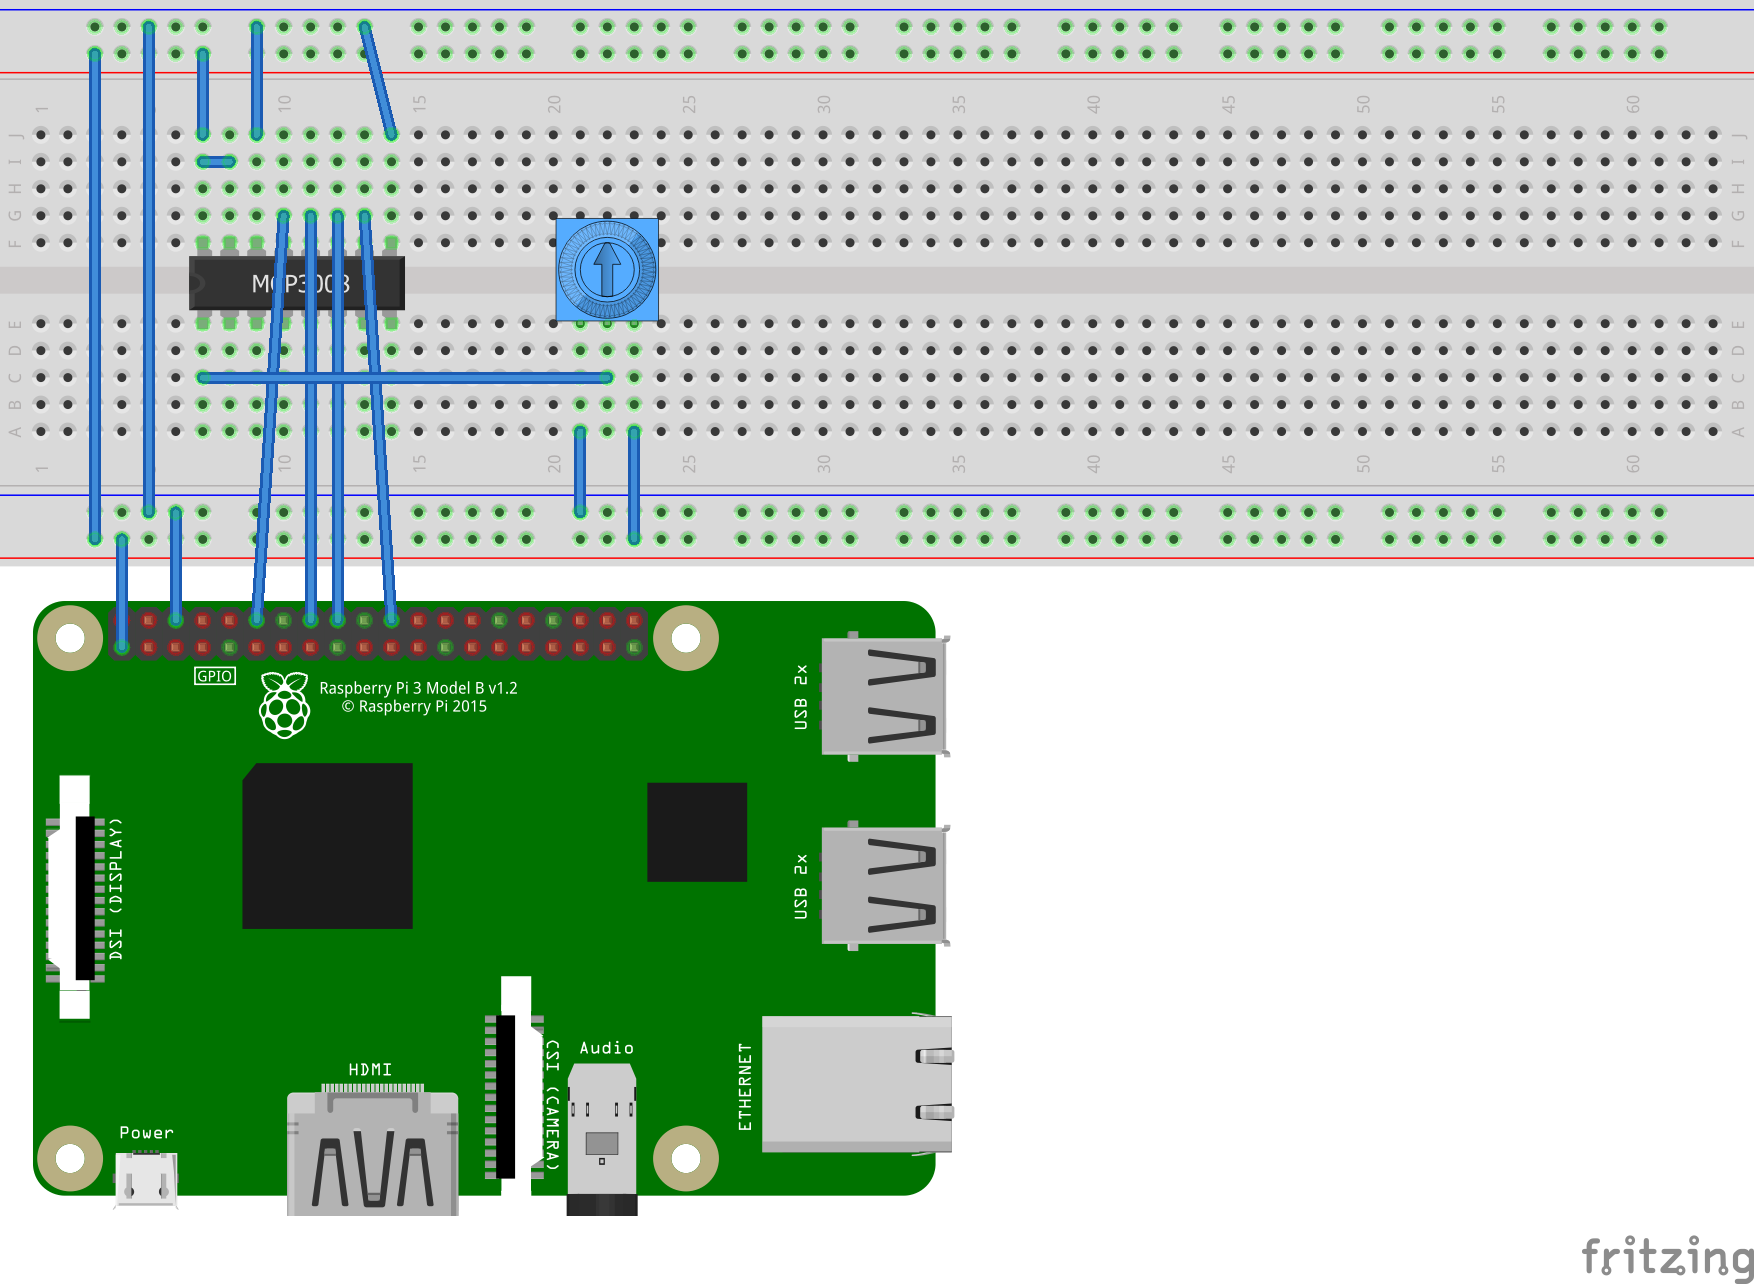
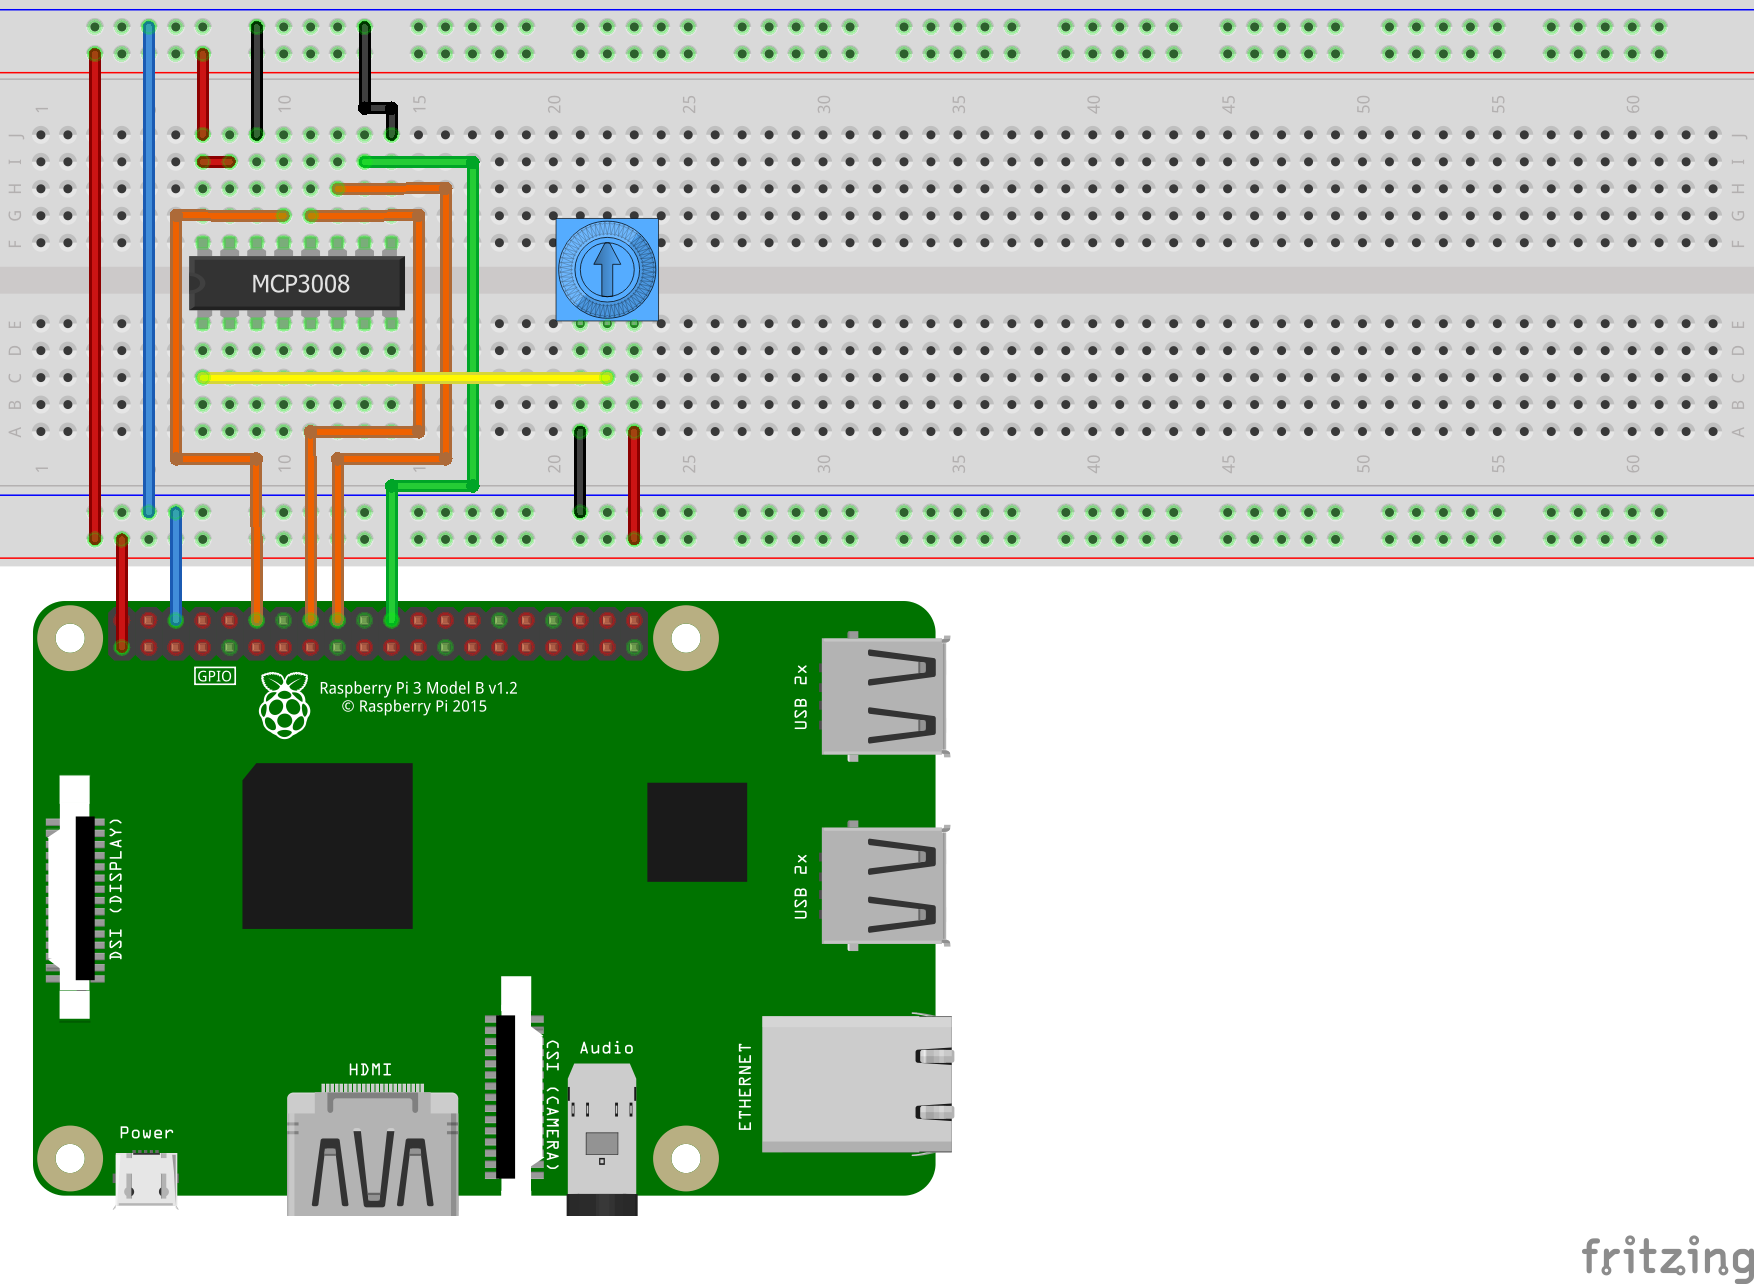
API Name Changes, Updated Samples and README

diff --git a/src/devices/Mcp3xxx/Mcp30xx32xx.cs b/src/devices/Mcp3xxx/Mcp30xx32xx.cs
@@ -7,62 +7,6 @@ using System.Device.Spi;
 
 namespace Iot.Device.Adc
 {
-    // MCP3001
-    // Byte        0        1
-    // ==== ======== ========
-    // Req  xxxxxxxx xxxxxxxx
-    // Resp xxNRRRR RRRRRRxxx
-    //
-    // MCP3002
-    // Byte        0        1
-    // ==== ======== ========
-    // Req  01MC1xxx xxxxxxxx
-    // Resp 00xxxNRR RRRRRRRR
-    //
-    // MCP3004
-    // Byte        0        1        2
-    // ==== ======== ======== ========
-    // Req  0000000S MxCCxxxx xxxxxxxx
-    // Resp xxxxxxxx xxxxDNRR RRRRRRRR
-    //
-    // MCP3008
-    // Byte        0        1        2
-    // ==== ======== ======== ========
-    // Req  0000000S MCCCxxxx xxxxxxxx
-    // Resp xxxxxxxx xxxxDNRR RRRRRRRR
-    //
-    // MCP3201
-    // Byte        0        1
-    // ==== ======== ========
-    // Req  xxxxxxxx xxxxxxxx
-    // Resp xxNRRRR RRRRRRRRx
-    //
-    // MCP3202
-    // Byte        0        1        2
-    // ==== ======== ======== ========
-    // Req  00000001 MC1xxxxx xxxxxxxx
-    // Resp xxxxxxxx xxxNRRRR RRRRRRRR
-    //
-    // MCP3204
-    // Byte        0        1        2
-    // ==== ======== ======== ========
-    // Req  00000SMx CCxxxxxx xxxxxxxx
-    // Resp xxxxxxxx xxDNRRRR RRRRRRRR
-    //
-    // MCP3208
-    // Byte        0        1        2
-    // ==== ======== ======== ========
-    // Req  00000SMC CCxxxxxx xxxxxxxx
-    // Resp xxxxxxxx xxDNRRRR RRRRRRRR
-    //
-    // S = StartBit
-    // C = Channel
-    // M = SingleEnded
-    // D = Delay
-    // N = Null Bit
-    // R = Response
-    //
-
     /// <summary>
     /// Mcp30xx32xx Abstract class representing the MCP 10 and 12 bit ADC devices.
     /// </summary>
@@ -123,15 +67,15 @@ namespace Iot.Device.Adc
         /// <summary>
         /// Reads a  value from the device using pseudo-differential inputs
         /// </summary>
-        /// <param name="positiveChannel">Channel which represents the signal (valid values: 0 to pincount - 1).</param>
-        /// <param name="negativeChannel">Channel which represents the signal ground (valid values: 0 to pincount - 1).</param>
+        /// <param name="valueChannel">Channel which represents the signal (valid values: 0 to pincount - 1).</param>
+        /// <param name="referenceChannel">Channel which represents the signal ground (valid values: 0 to pincount - 1).</param>
         /// <returns>A value corresponding to relative voltage level on specified device channels</returns>
-        public virtual int ReadPseudoDifferential(int positiveChannel, int negativeChannel)
+        public virtual int ReadPseudoDifferential(int valueChannel, int referenceChannel)
         {
             // ensure that the channels are part of the same pairing
-            CheckChannelPairing(positiveChannel, negativeChannel, PinCount / 2);
+            CheckChannelPairing(valueChannel, referenceChannel, PinCount / 2);
 
-            return Read(positiveChannel / 2, positiveChannel > negativeChannel ? InputType.InvertedDifferential : InputType.Differential, _adcResolutionBits);
+            return ReadInternal(valueChannel / 2, valueChannel > referenceChannel ? InputType.InvertedDifferential : InputType.Differential, _adcResolutionBits);
         }
 
         /// <summary>
@@ -150,8 +94,8 @@ namespace Iot.Device.Adc
                 throw new ArgumentException($"ADC differential channels must be different.", nameof(positiveChannel) + " " + nameof(negativeChannel));
             }
 
-            return Read(positiveChannel, InputType.SingleEnded, _adcResolutionBits) -
-                   Read(negativeChannel, InputType.SingleEnded, _adcResolutionBits);
+            return ReadInternal(positiveChannel, InputType.SingleEnded, _adcResolutionBits) -
+                   ReadInternal(negativeChannel, InputType.SingleEnded, _adcResolutionBits);
         }
 
         /// <summary>
@@ -161,7 +105,7 @@ namespace Iot.Device.Adc
         /// <returns>A value corresponding to relative voltage level on specified device channel</returns>
         public virtual int Read(int channel)
         {
-            return Read(channel, InputType.SingleEnded, _adcResolutionBits);
+            return ReadInternal(channel, InputType.SingleEnded, _adcResolutionBits);
         }
 
         /// <summary>
@@ -171,7 +115,7 @@ namespace Iot.Device.Adc
         /// <param name="inputType">The type of input pin to read</param>
         /// <param name="adcResolutionBits">The number of bits in the returned value</param>
         /// <returns>A value corresponding to relative voltage level on specified device channel</returns>
-        protected int Read(int channel, InputType inputType, int adcResolutionBits)
+        protected int ReadInternal(int channel, InputType inputType, int adcResolutionBits)
         {
             int channelVal;
             int requestVal;
@@ -199,7 +143,7 @@ namespace Iot.Device.Adc
             // read the data from the device...
             // the adcRequestLength bytes is 2 for the 3001, 3002 and 3201 otherwise it is 3 bytes
             // the delayBits is set to account for the extra sampling delay on the 3002, 3004, 3202 and 3204, 
-            return Read(requestVal, adcRequestLengthBytes: PinCount > 1 && adcResolutionBits > 10 ? 3 : 2, adcResolutionBits: adcResolutionBits, delayBits: PinCount > 2 ? 1 : 0);
+            return ReadInternal(requestVal, adcRequestLengthBytes: PinCount > 1 && adcResolutionBits > 10 ? 3 : 2, adcResolutionBits: adcResolutionBits, delayBits: PinCount > 2 ? 1 : 0);
         }
     }
 }

diff --git a/src/devices/Mcp3xxx/Mcp3xxx.cs b/src/devices/Mcp3xxx/Mcp3xxx.cs
@@ -8,6 +8,82 @@ using System.Device.Spi;
 
 namespace Iot.Device.Adc
 {
+    // MCP3001
+    // Byte        0        1
+    // ==== ======== ========
+    // Req  xxxxxxxx xxxxxxxx
+    // Resp xxNRRRR RRRRRRxxx
+    //
+    // MCP3002
+    // Byte        0        1
+    // ==== ======== ========
+    // Req  01MC1xxx xxxxxxxx
+    // Resp 00xxxNRR RRRRRRRR
+    //
+    // MCP3004
+    // Byte        0        1        2
+    // ==== ======== ======== ========
+    // Req  0000000S MxCCxxxx xxxxxxxx
+    // Resp xxxxxxxx xxxxDNRR RRRRRRRR
+    //
+    // MCP3008
+    // Byte        0        1        2
+    // ==== ======== ======== ========
+    // Req  0000000S MCCCxxxx xxxxxxxx
+    // Resp xxxxxxxx xxxxDNRR RRRRRRRR
+    //
+    // MCP3201
+    // Byte        0        1
+    // ==== ======== ========
+    // Req  xxxxxxxx xxxxxxxx
+    // Resp xxNRRRR RRRRRRRRx
+    //
+    // MCP3202
+    // Byte        0        1        2
+    // ==== ======== ======== ========
+    // Req  00000001 MC1xxxxx xxxxxxxx
+    // Resp xxxxxxxx xxxNRRRR RRRRRRRR
+    //
+    // MCP3204
+    // Byte        0        1        2
+    // ==== ======== ======== ========
+    // Req  00000SMx CCxxxxxx xxxxxxxx
+    // Resp xxxxxxxx xxDNRRRR RRRRRRRR
+    //
+    // MCP3208
+    // Byte        0        1        2
+    // ==== ======== ======== ========
+    // Req  00000SMC CCxxxxxx xxxxxxxx
+    // Resp xxxxxxxx xxDNRRRR RRRRRRRR
+    //
+    // MCP3301
+    // Byte        0        1
+    // ==== ======== ========
+    // Req  xxxxxxxx xxxxxxxx
+    // Resp xxN-RRRR RRRRRRRR
+    //
+    // MCP3302
+    // Byte        0        1        2
+    // ==== ======== ======== ========
+    // Req  0000SMxC Cxxxxxxx xxxxxxxx
+    // Resp xxxxxxxx xDN-RRRR RRRRRRRR
+    //
+    // MCP3304
+    // Byte        0        1        2
+    // ==== ======== ======== ========
+    // Req  0000SMCC Cxxxxxxx xxxxxxxx
+    // Resp xxxxxxxx xDN-RRRR RRRRRRRR
+    //
+    // S = StartBit = 1
+    // C = Channel
+    // M = SingleEnded
+    // D = Delay
+    // N = Null Bit = 0
+    // R = Response
+    // - = Sign Bit
+    // x = Dont Care
+    //
+
     /// <summary>
     /// Mcp3xxx Abstract class representing the MCP ADC devices.
     /// </summary>
@@ -54,7 +130,7 @@ namespace Iot.Device.Adc
         /// <param name="adcResolutionBits">The number of bits in the returned value</param>
         /// <param name="delayBits">The number of bits to be delayed between the request and the response being read.</param>
         /// <returns>A value corresponding to a voltage level on the input pin described by the request.</returns>
-        protected int Read(int adcRequest, int adcRequestLengthBytes, int adcResolutionBits, int delayBits)
+        protected int ReadInternal(int adcRequest, int adcRequestLengthBytes, int adcResolutionBits, int delayBits)
         {
             int retval = 0;
 
@@ -74,7 +150,7 @@ namespace Iot.Device.Adc
             _spiDevice.TransferFullDuplex(requestBuffer, responseBuffer);
 
             // transfer the response from the ADC into the return value
-            for (int i=0; i < responseBuffer.Length; i++)
+            for (int i = 0; i < responseBuffer.Length; i++)
             {
                 retval <<= 8;
                 retval += responseBuffer[i];

diff --git a/src/devices/Mcp3xxx/Mcp33xx.cs b/src/devices/Mcp3xxx/Mcp33xx.cs
@@ -52,15 +52,15 @@ namespace Iot.Device.Adc
             // check if it is possible to use hardware differential
             if (positiveChannel / 2 == negativeChannel / 2)
             {
-                retval = Read(positiveChannel / 2, positiveChannel > negativeChannel ? InputType.InvertedDifferential : InputType.Differential, adcResolutionBits: 13);
+                retval = ReadInternal(positiveChannel / 2, positiveChannel > negativeChannel ? InputType.InvertedDifferential : InputType.Differential, adcResolutionBits: 13);
 
                 //convert 13 bit signed to 32 bit signed
                 retval = (retval >> 12) == 0 ? retval : (int)(0xFFFFE000 | retval);
             }
             else // otherwise just subtract two readings
             {
-                retval = Read(positiveChannel, InputType.SingleEnded, adcResolutionBits: 12) -
-                         Read(negativeChannel, InputType.SingleEnded, adcResolutionBits: 12);
+                retval = ReadInternal(positiveChannel, InputType.SingleEnded, adcResolutionBits: 12) -
+                         ReadInternal(negativeChannel, InputType.SingleEnded, adcResolutionBits: 12);
             }
 
             return retval;

diff --git a/src/devices/Mcp3xxx/Mcp3301.cs b/src/devices/Mcp3xxx/Mcp3301.cs
@@ -23,7 +23,7 @@ namespace Iot.Device.Adc
         /// <returns>Integer value corresponding to relative voltage level on specified device channel</returns>
         public int Read()
         {
-            int retval = Read(adcRequest: 0, adcRequestLengthBytes: 2, adcResolutionBits: 13, delayBits: 0);
+            int retval = ReadInternal(adcRequest: 0, adcRequestLengthBytes: 2, adcResolutionBits: 13, delayBits: 0);
 
             //convert 13 bit signed to 32 bit signed
             return (retval >> 12) == 0 ? retval : (int)(0xFFFFE000 | retval);

diff --git a/src/devices/Mcp3xxx/Mcp3001.cs b/src/devices/Mcp3xxx/Mcp3001.cs
@@ -23,7 +23,7 @@ namespace Iot.Device.Adc
         /// <returns>10-bit value corresponding to relative voltage level on specified device channel</returns>
         public int Read()
         {
-            return Read(adcRequest: 0, adcRequestLengthBytes: 2, 10 + 3, delayBits: 0) >> 3;
+            return ReadInternal(adcRequest: 0, adcRequestLengthBytes: 2, 10 + 3, delayBits: 0) >> 3;
         }
     }
 }

diff --git a/src/devices/Mcp3xxx/Mcp3201.cs b/src/devices/Mcp3xxx/Mcp3201.cs
@@ -23,7 +23,7 @@ namespace Iot.Device.Adc
         /// <returns>12-bit value corresponding to relative voltage level on specified device channel</returns>
         public int Read()
         {
-            return Read(adcRequest: 0, adcRequestLengthBytes: 2, 13 + 1, delayBits: 0) >> 1;
+            return ReadInternal(adcRequest: 0, adcRequestLengthBytes: 2, 13 + 1, delayBits: 0) >> 1;
         }
     }
 }

diff --git a/src/devices/Mcp3xxx/README.md b/src/devices/Mcp3xxx/README.md
@@ -1,18 +1,25 @@
-# Mcp3Adc
+# MCP3000, MCP3200 and MCP3300 ranges of Analog to Digital Converters
 
-## Summary
-Provide a brief description on what the component is and its functonality.
+Some devices like the Raspberry Pi cannot read analog values directly so rely on  [analog to digital converters](https://en.wikipedia.org/wiki/Analog-to-digital_converter), like the ones available from Microchip in the Mcp3000, Mcp3200 and Mcp3300 ranges. These chips can be accessed as an [SPI device](https://en.wikipedia.org/wiki/Serial_Peripheral_Interface) or manually via raw GPIO pins.
 
-## Device Family
-Provide a list of component names and link to datasheets (if available) the binding will work with.
+ You can use these converters in your project to access analog devices. The sample [Reading Analog Input from a Potentiometer](samples/README.md) demonstrates a concrete example using the Mcp3008 class.
 
-**[Family Name Here]**: [Datasheet link here]
+The following fritzing diagram illustrates one way to wire up the Mcp3008, with a Raspberry Pi and a potentiometer.
 
-## Binding Notes
+![Raspberry Pi Breadboard diagram](samples/rpi-trimpot_spi.png)
 
-Provide any specifics related to binding API.  This could include how to configure component for particular functions and example code.
+These bindings support the following ADC's
 
-**NOTE**:  Don't repeat the basics related to System.Device.API* (e.g. connection settings, etc.).  This helps keep text/steps down to a minimum for maintainability.
+- [Mcp3001](http://ww1.microchip.com/downloads/en/DeviceDoc/21293C.pdf)  10 bit resolution with a single pseudo-differential input.
+- [Mcp3002](http://ww1.microchip.com/downloads/en/DeviceDoc/21294E.pdf)  10 bit resolution with two single ended inputs or a single pseudo-differential input.
+- [Mcp3004](http://ww1.microchip.com/downloads/en/devicedoc/21295c.pdf)  10 bit resolution with four single ended inputs or two single pseudo-differential inputs.
+- [Mcp3008](http://ww1.microchip.com/downloads/en/devicedoc/21295c.pdf)  10 bit resolution with eight single ended inputs or four single pseudo-differential inputs.
 
-## References 
-Provide any references to other tutorials, blogs and hardware related to the component that could help others get started.
+- [Mcp3201](http://ww1.microchip.com/downloads/en/devicedoc/21290d.pdf)  12 bit resolution with a single pseudo-differential input.
+- [Mcp3202](http://ww1.microchip.com/downloads/en/devicedoc/21034d.pdf)  12 bit resolution with two single ended inputs or a single pseudo-differential input.
+- [Mcp3204](http://ww1.microchip.com/downloads/en/DeviceDoc/21298c.pdf)  12 bit resolution with four single ended inputs or two single pseudo-differential inputs.
+- [Mcp3208](http://ww1.microchip.com/downloads/en/DeviceDoc/21298c.pdf)  12 bit resolution with eight single ended inputs or four single pseudo-differential inputs.
+
+- [Mcp3301](http://ww1.microchip.com/downloads/en/devicedoc/21700d.pdf)  13 bit signed resolution with a single true differential input.
+- [Mcp3202](http://ww1.microchip.com/downloads/en/DeviceDoc/21697F.pdf)  12 bit resolution with four single ended inputs or 13 bit signed resolution with two true differential inputs.
+- [Mcp3304](http://ww1.microchip.com/downloads/en/DeviceDoc/21697F.pdf)  12 bit resolution with eight single ended inputs or 13 bit signed resolution with four true differential inputs.
